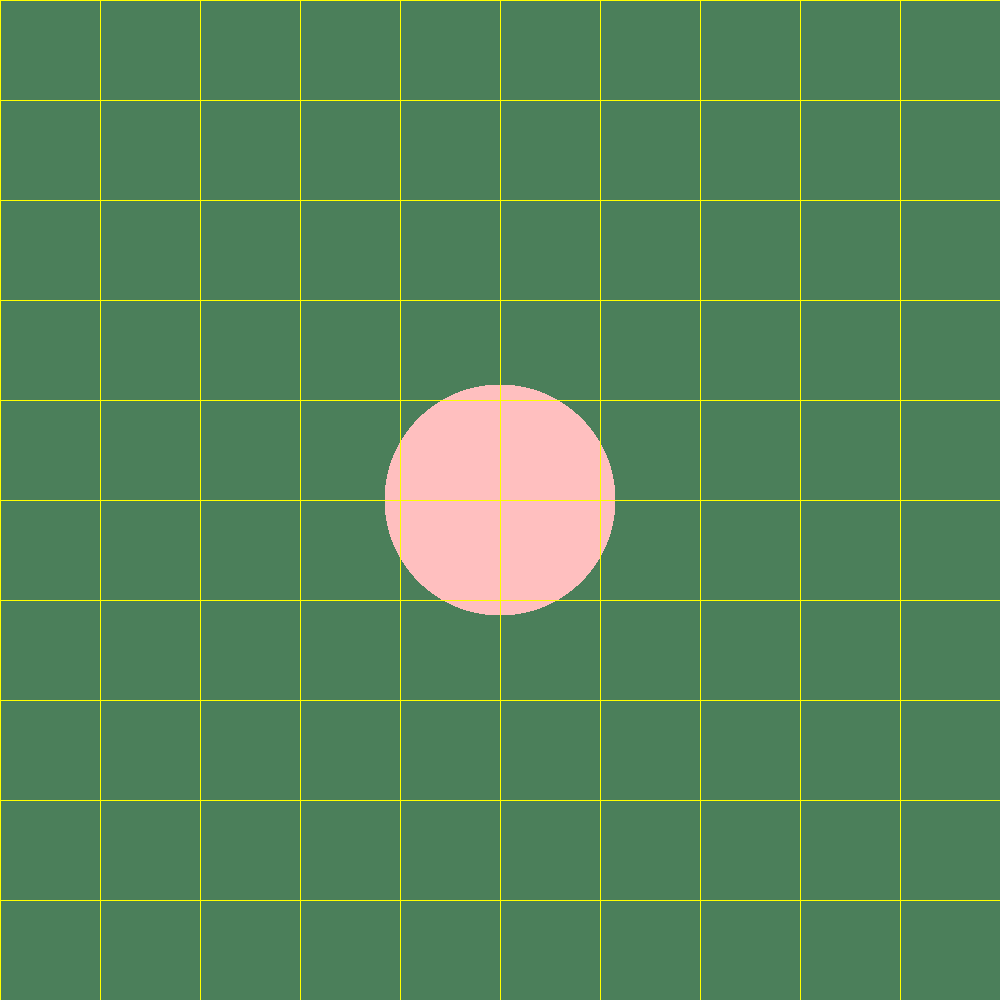
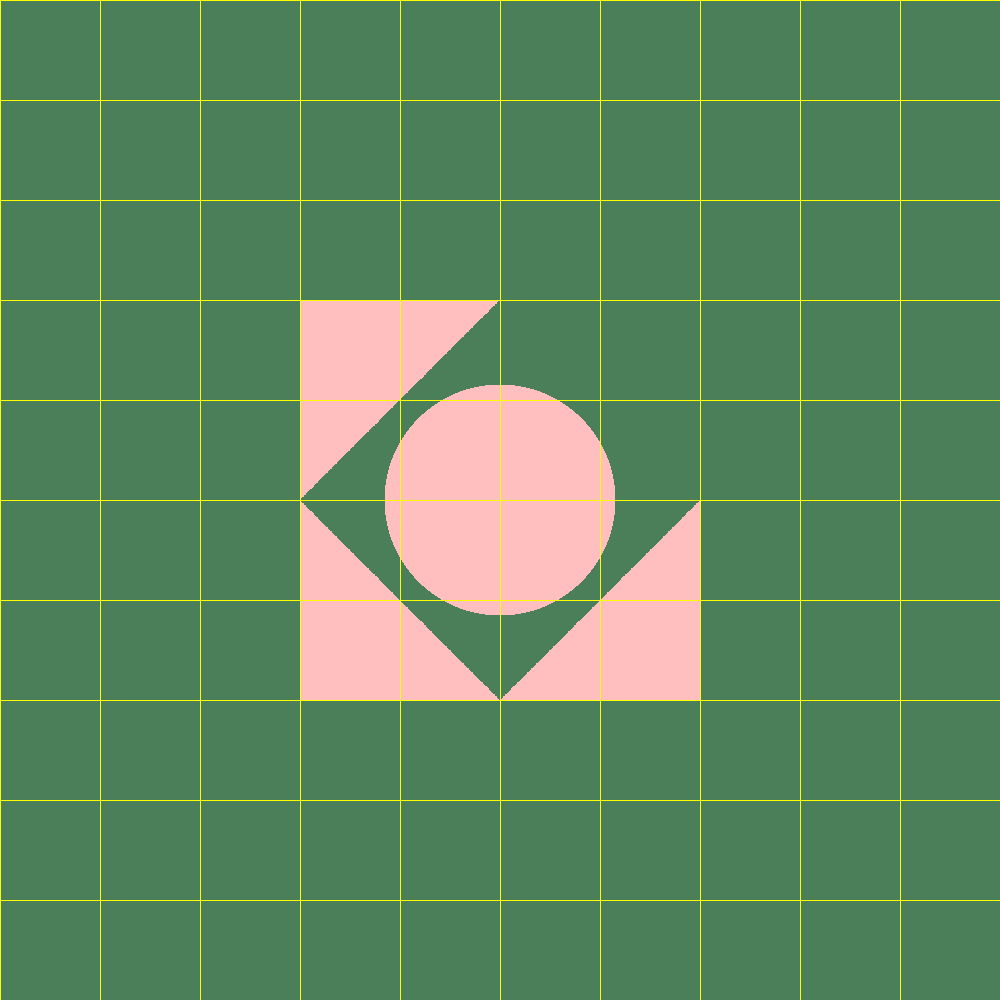
targil 5

Changed region(s): [[0.279, 0.279, 0.713, 0.713]]

diff --git a/unittests/renderer/RenderTests.java b/unittests/renderer/RenderTests.java
@@ -24,20 +24,19 @@ public class RenderTests {
 				.setAmbientLight(new AmbientLight(new Color(255, 191, 191), //
 						new Double3(1,1,1))) //
 				.setBackground(new Color(75, 127, 90));
-			//	.setBackground(new Color(255, 0, 0));
-		scene.geometries.add(new Sphere(new Point(0, 0, -100), 50)); //,
-			//	new Triangle(new Point(-100, 0, -100), new Point(0, 100, -100), new Point(-100, 100, -100)), // up
+
+		scene.geometries.add(new Sphere(new Point(0, 0, -100),50),
+				new Triangle(new Point(-100, 0, -100), new Point(0, 100, -100), new Point(-100, 100, -100)), // up
 				// left
-			//	new Triangle(new Point(-100, 0, -100), new Point(0, -100, -100), new Point(-100, -100, -100)), // down
+				new Triangle(new Point(-100, 0, -100), new Point(0, -100, -100), new Point(-100, -100, -100)), // down
 				// left
-			//	new Triangle(new Point(100, 0, -100), new Point(0, -100, -100), new Point(100, -100, -100))); // down
+				new Triangle(new Point(100, 0, -100), new Point(0, -100, -100), new Point(100, -100, -100))); // down
 		// right
 		Camera camera = new Camera(Point.ZERO, new Vector(0, 0, -1), new Vector(0, 1, 0)) //
 				.setVPDistance(100) //
 				.setVPSize(500, 500) //
 				.setImageWriter(new ImageWriter("base render test", 1000, 1000))
 				.setRayTracer(new RayTracerBasic(scene));
-		//System.out.println("here");
 
 		camera.renderImage();
 		camera.printGrid(100, new Color(java.awt.Color.YELLOW));

diff --git a/src/geometries/Geometries.java b/src/geometries/Geometries.java
@@ -33,9 +33,7 @@ public class Geometries implements Intersectable {
     }
     public List<Point> findIntsersections(Ray ray) {
         List<Point> result = null;
-
         List<Point> one_geometrie = new LinkedList<Point>();
-
         for (Intersectable i : geometrieslist) {
             one_geometrie = i.findIntsersections(ray);
             if (one_geometrie!= null){
@@ -43,10 +41,8 @@ public class Geometries implements Intersectable {
                     result=new LinkedList<>();
                 for (Point p : one_geometrie) {
                     result.add(p);
-
                 }
             }
-
         }
 
         return result;

diff --git a/src/renderer/RayTracerBasic.java b/src/renderer/RayTracerBasic.java
@@ -31,14 +31,12 @@ public class RayTracerBasic extends RayTracerBase {
 	@Override
 	public Color traceRay(Ray ray) {
 		List<Point> closestPoint = scene.geometries.findIntsersections(ray);
-		System.out.println(closestPoint);
 		return closestPoint == null ? scene.background : calcColor(closestPoint, ray);
 
 	}
 
 	private Color calcColor(List<Point> closestPoint, Ray ray) {
 
-		System.out.println("in calc");
 		return  scene.ambientLight.getIntensity();
 	}
 }

diff --git a/src/primitives/Point.java b/src/primitives/Point.java
@@ -84,14 +84,14 @@ public class Point
 
 
 	public double getX() {
-		return this.getX();
+		return xyz.d1;
 	}
 
 	public double getY() {
-		return this.getY();
+		return xyz.d2;
 	}
 
 	public double getZ() {
-		return this.getZ();
+		return xyz.d3;
 	}
 }
